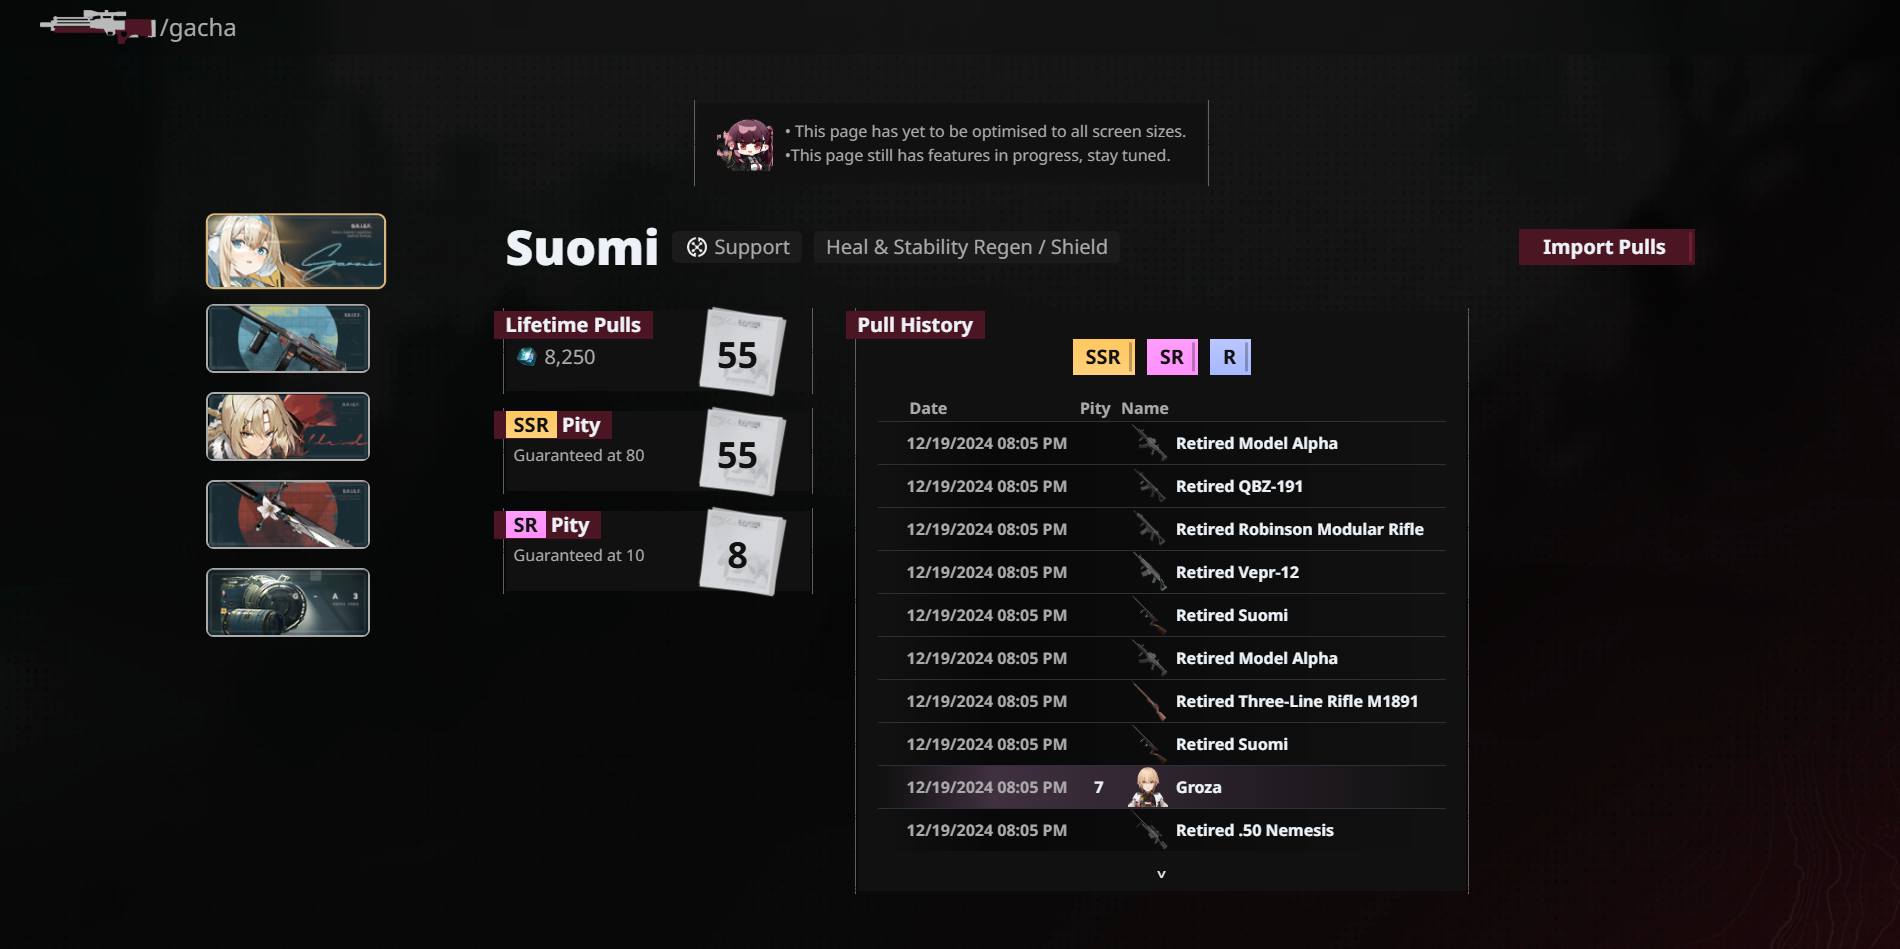
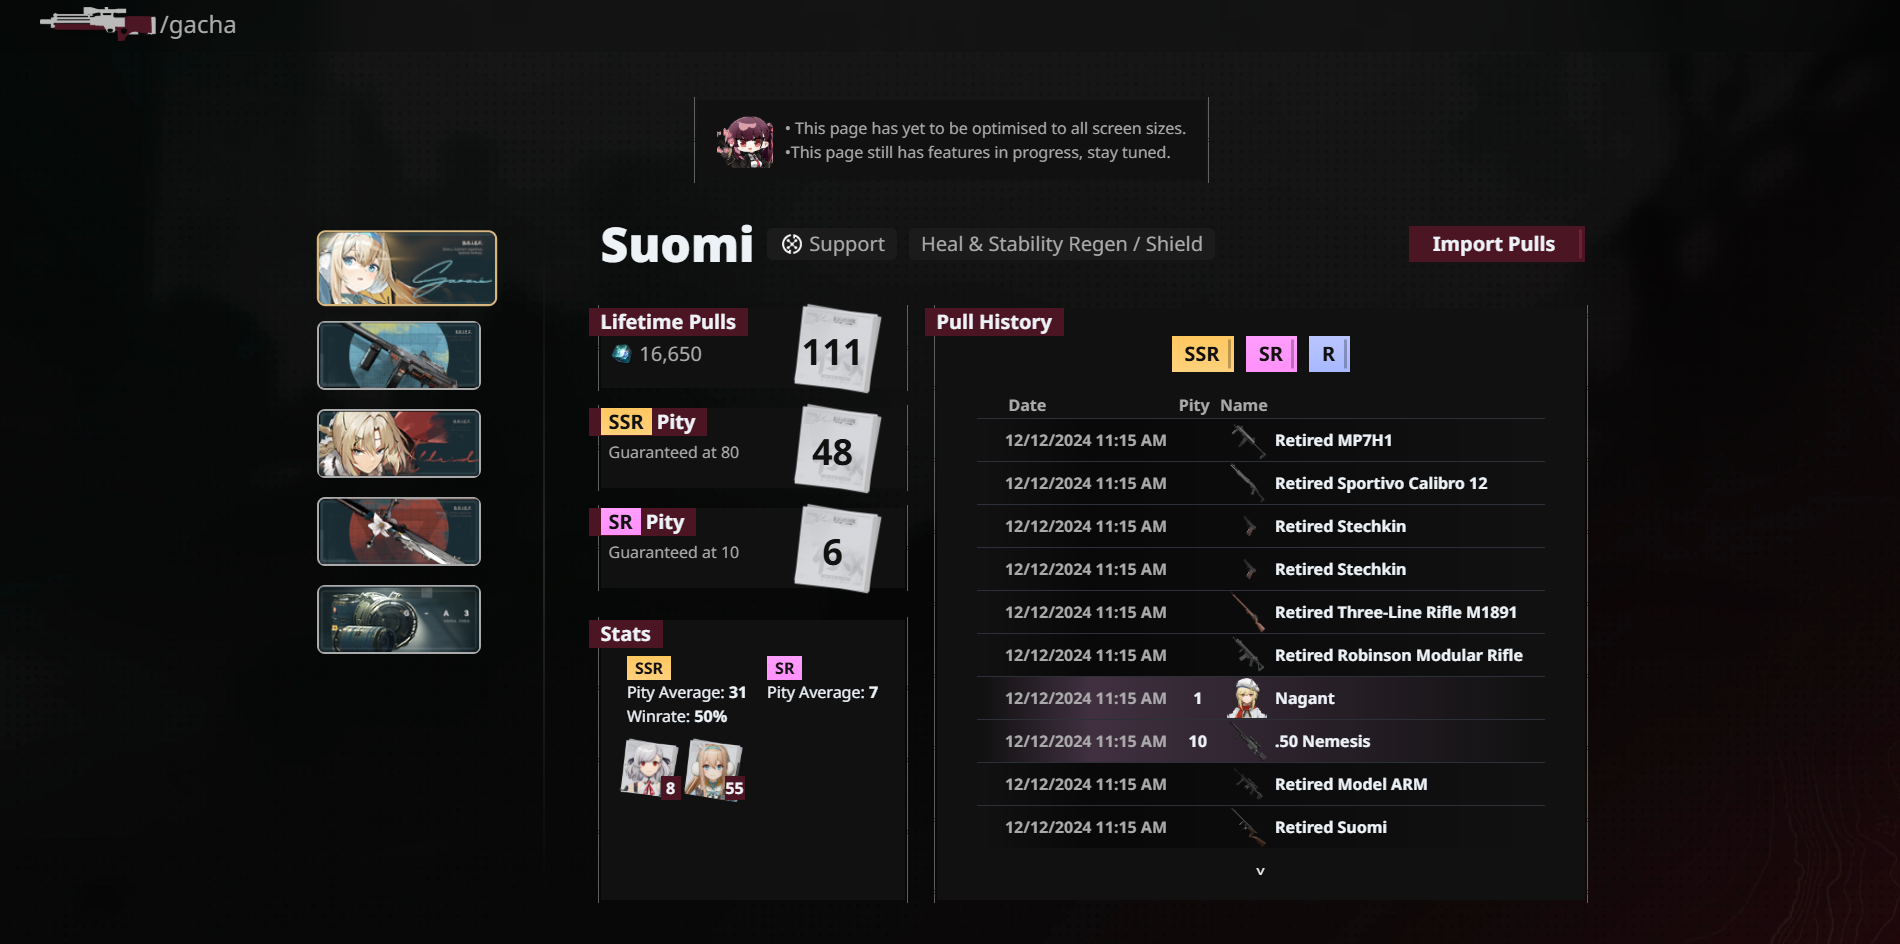
optimisations + stats

diff --git a/client/src/views/Gacha.vue b/client/src/views/Gacha.vue
@@ -25,27 +25,51 @@
                 <button @click="redirect('/gacha/import')" class="button w-44">Import Pulls</button>
             </div>
 
-            <div class="flex flex-wrap gap-12">
-                <div class="min-w-[19rem] h-[17.5rem] flex flex-col gap-5">
-                    <div class="main-container h-20 relative">
-                        <p class="font-bold bg-secondary w-max px-3 -translate-x-3 text-xl">Lifetime Pulls</p>
-                        <p class="absolute w-20 text-center right-8 top-[1.5rem] font-bold text-4xl text-main z-10">{{ gacha.banners[bannerFocused.type].total }}</p>
-                        <p class="absolute w-20 text-center left-2 top-8 text-xl text-description z-10 inline-image"><img src="/items/collapse_piece.webp"> {{ (gacha.banners[bannerFocused.type].total * 150).toLocaleString() }}</p>
-                        <img class="h-24 absolute right-5 -top-2" src="/pull_background.webp">
+            <div class="flex flex-wrap gap-8">
+                <div class="flex flex-col md:flex-row gap-8">
+                    <div class="min-w-[19rem] h-[17.5rem] flex flex-col gap-5">
+                        <div class="main-container h-20 relative">
+                            <p class="font-bold bg-secondary w-max px-3 -translate-x-3 text-xl">Lifetime Pulls</p>
+                            <p class="absolute w-20 text-center right-8 top-[1.5rem] font-bold text-4xl text-main z-10">{{ gacha.banners[bannerFocused.type].total }}</p>
+                            <p class="absolute w-20 text-center left-2 top-8 text-xl text-description z-10 inline-image"><img src="/items/collapse_piece.webp"> {{ (gacha.banners[bannerFocused.type].total * 150).toLocaleString() }}</p>
+                            <img class="h-24 absolute right-5 -top-2" src="/pull_background.webp">
+                        </div>
+
+                        <div class="main-container h-20 relative">
+                            <p class="font-bold bg-secondary w-max px-3 -translate-x-3 text-xl"><span class="gradient-ssr px-2 text-main">SSR</span> Pity</p>
+                            <p class="absolute w-20 text-center right-8 top-[1.5rem] font-bold text-4xl text-main z-10">{{ gacha.banners[bannerFocused.type].pity.ssr }}</p>
+                            <p class="absolute w-max text-center left-2 top-8 text-md text-description z-10">Guaranteed at 80</p>
+                            <img class="h-24 absolute right-5 -top-2" src="/pull_background.webp">
+                        </div>
+
+                        <div class="main-container h-20 relative">
+                            <p class="font-bold bg-secondary w-max px-3 -translate-x-3 text-xl"><span class="gradient-sr px-2 text-main">SR</span> Pity</p>
+                            <p class="absolute w-20 text-center right-8 top-[1.5rem] font-bold text-4xl text-main z-10">{{ gacha.banners[bannerFocused.type].pity.sr }}</p>
+                            <p class="absolute w-max text-center left-2 top-8 text-md text-description z-10">Guaranteed at 10</p>
+                            <img class="h-24 absolute right-5 -top-2" src="/pull_background.webp">
+                        </div>
                     </div>
 
-                    <div class="main-container h-20 relative">
-                        <p class="font-bold bg-secondary w-max px-3 -translate-x-3 text-xl"><span class="gradient-ssr px-2 text-main">SSR</span> Pity</p>
-                        <p class="absolute w-20 text-center right-8 top-[1.5rem] font-bold text-4xl text-main z-10">{{ gacha.banners[bannerFocused.type].pity.ssr }}</p>
-                        <p class="absolute w-max text-center left-2 top-8 text-md text-description z-10">Guaranteed at 80</p>
-                        <img class="h-24 absolute right-5 -top-2" src="/pull_background.webp">
-                    </div>
-
-                    <div class="main-container h-20 relative">
-                        <p class="font-bold bg-secondary w-max px-3 -translate-x-3 text-xl"><span class="gradient-sr px-2 text-main">SR</span> Pity</p>
-                        <p class="absolute w-20 text-center right-8 top-[1.5rem] font-bold text-4xl text-main z-10">{{ gacha.banners[bannerFocused.type].pity.sr }}</p>
-                        <p class="absolute w-max text-center left-2 top-8 text-md text-description z-10">Guaranteed at 10</p>
-                        <img class="h-24 absolute right-5 -top-2" src="/pull_background.webp">
+                    <div class="min-w-[19rem] h-[17.5rem] main-container flex flex-col">
+                        <p class="font-bold bg-secondary w-max px-3 -translate-x-3 text-xl">Stats</p>
+                        <div class="px-2 pt-2 flex justify-center gap-5">
+                            <div>
+                                <p class="font-bold gradient-ssr text-main px-2 w-min">SSR</p>
+                                <p>Pity Average: <span class="text-text font-bold">{{ gacha.banners[bannerFocused.type].stats.ssrAverage }}</span></p>
+                                <p>Winrate: <span class="text-text font-bold">{{ Math.floor(gacha.banners[bannerFocused.type].stats.ssrWinrate * 100) }}%</span></p>
+                            </div>
+                            <div>
+                                <p class="font-bold gradient-sr text-main px-2 w-min">SR</p>
+                                <p>Pity Average: <span class="text-text font-bold">{{ gacha.banners[bannerFocused.type].stats.srAverage }}</span></p>
+                            </div>
+                        </div>
+                        <div class="w-[19rem] h-full px-4 pt-2 flex flex-wrap content-start">
+                            <div v-for="pull in gacha.banners[bannerFocused.type].pulls.filter(pull => pull[4] == 'ssr')" class="w-16 h-16 relative">
+                                <img style="clip-path: polygon(10% 0, 100% 10%, 90% 100%, 0 85%)" class="absolute z-10 top-1 w-full scale-95 rounded-lg" :src="`/${pull[3]}s/${pull[1]}.webp`">
+                                <img class="absolute" src="/pull_background.webp">
+                                <p class="absolute right-0 top-10 z-10 font-bold bg-secondary w-5 text-center">{{ pull[5] }}</p>
+                            </div>
+                        </div>
                     </div>
                 </div>
 
@@ -78,7 +102,7 @@
             </div>
         </div>
 
-        <div v-if="(gacha && !gacha.banners[bannerFocused.type]) || !gacha" class="flex flex-col justify-center items-center w-full h-[25rem]">
+        <div v-if="(gacha && !gacha.banners[bannerFocused.type]) || !gacha" class="flex flex-col justify-center items-center w-[61.5rem] h-[25rem]">
             <img class="h-24" src="/missing.gif">
             <p>Missing Gacha Data</p>
             <button @click="redirect('/gacha/import')" class="button w-44 mt-2">Import Pulls</button>
@@ -161,7 +185,7 @@
 
                 //var i = 1
                 for (const [bannerType, banner] of Object.entries(gacha.banners)) {
-                    formatted[bannerType] = {pulls: [], total: banner.pulls.length, pity: {ssr: 0, sr: 0}}
+                    formatted[bannerType] = {pulls: [], total: banner.pulls.length, pity: {ssr: 0, sr: 0}, stats: {ssrAverage: [], srAverage: [], ssrWinrate: []}}
 
                     const formattedBanner = formatted[bannerType]
 
@@ -180,15 +204,29 @@
                         formattedBanner.pity.sr += 1
 
                         if (attainable.rarity == "sr" || attainable.rarity == "ssr") {
-                            pullFormatted.push(formattedBanner.pity[attainable.rarity])
+                            const roll = formattedBanner.pity[attainable.rarity]
+
+                            pullFormatted.push(roll)
+                            formattedBanner.stats[`${attainable.rarity}Average`].push(roll)
 
                             formattedBanner.pity[attainable.rarity] = 0
+                        }
+
+                        if (attainable.rarity == "ssr") {
+                            formattedBanner.stats.ssrWinrate.push((attainable.standard) ? 0: 1)
                         }
 
                         formattedBanner.pulls.push(pullFormatted)
                     }
 
                     formattedBanner.pulls.reverse()
+                    formattedBanner.stats.srAverage = Math.floor(formattedBanner.stats.srAverage.reduce((a, b, _, pulls) => a + b / pulls.length, 0))
+                    formattedBanner.stats.ssrAverage = Math.floor(formattedBanner.stats.ssrAverage.reduce((a, b, _, pulls) => a + b / pulls.length, 0))
+                    formattedBanner.stats.ssrWinrate = formattedBanner.stats.ssrWinrate.reduce((a, b, _, pulls) => a + b / pulls.length, 0)
+                    //formattedBanner.stats.srAverage = Math.floor(formattedBanner.pulls.filter(pull => pull[4] == "sr").map(pull => pull[5]).reduce((a, b, _, pulls) => a + b / pulls.length, 0))
+                    //formattedBanner.stats.ssrAverage = Math.floor(formattedBanner.pulls.filter(pull => pull[4] == "ssr").map(pull => pull[5]).reduce((a, b, _, pulls) => a + b / pulls.length, 0))
+
+                    //console.log(formattedBanner)
                 }
 
                 gacha.banners = formatted

diff --git a/client/src/views/Import.vue b/client/src/views/Import.vue
@@ -193,8 +193,8 @@
 
                                             break
                                         } else {
-                                            if (!gacha.banners[banner.type]) {
-                                                gacha.banners[banner.type] = {pulls: [], lastPullDate: response.data.list[0].time}
+                                            if (!gacha.banners[banner.type] && response.data.list.length > 0) {
+                                                gacha.banners[banner.type] = {pulls: [], lastPullDate: response.data.list[0].time || 0}
                                             }
 
                                             for (const pull of response.data.list) {

diff --git a/client/src/views/Home.vue b/client/src/views/Home.vue
@@ -17,7 +17,7 @@
             </div>
         </div>
 
-        <div class="relative h-96">
+        <div class="relative h-96 -z-10">
             <img class="debris" src="/debris.webp" alt="debris">
             <img class="splash" src="/splash.webp" alt="macchiato render">
         </div>

diff --git a/client/src/App.vue b/client/src/App.vue
@@ -1,5 +1,5 @@
 <template>
-  <Analytics/>
+  <!--<Analytics/>-->
 
   <header class="h-14 bg-[#00000020] backdrop-blur-lg drop-shadow-md flex items-center sm:pl-2 pl-10 gap-1">
     <img @click="redirect('/')" class="logo h-3/5" src="/logo.webp" alt="logo">

diff --git a/client/tailwind.config.js b/client/tailwind.config.js
@@ -3,7 +3,7 @@ module.exports = {
   content: ["./index.html", "./src/**/*.{vue,js,ts,jsx,tsx}"],
   theme: {
     screens: {
-      "md": {"max": "1300px"},
+      "md": {"max": "1370px"},
       "sm": {"max": "700px"},
     },
     fontFamily: {
